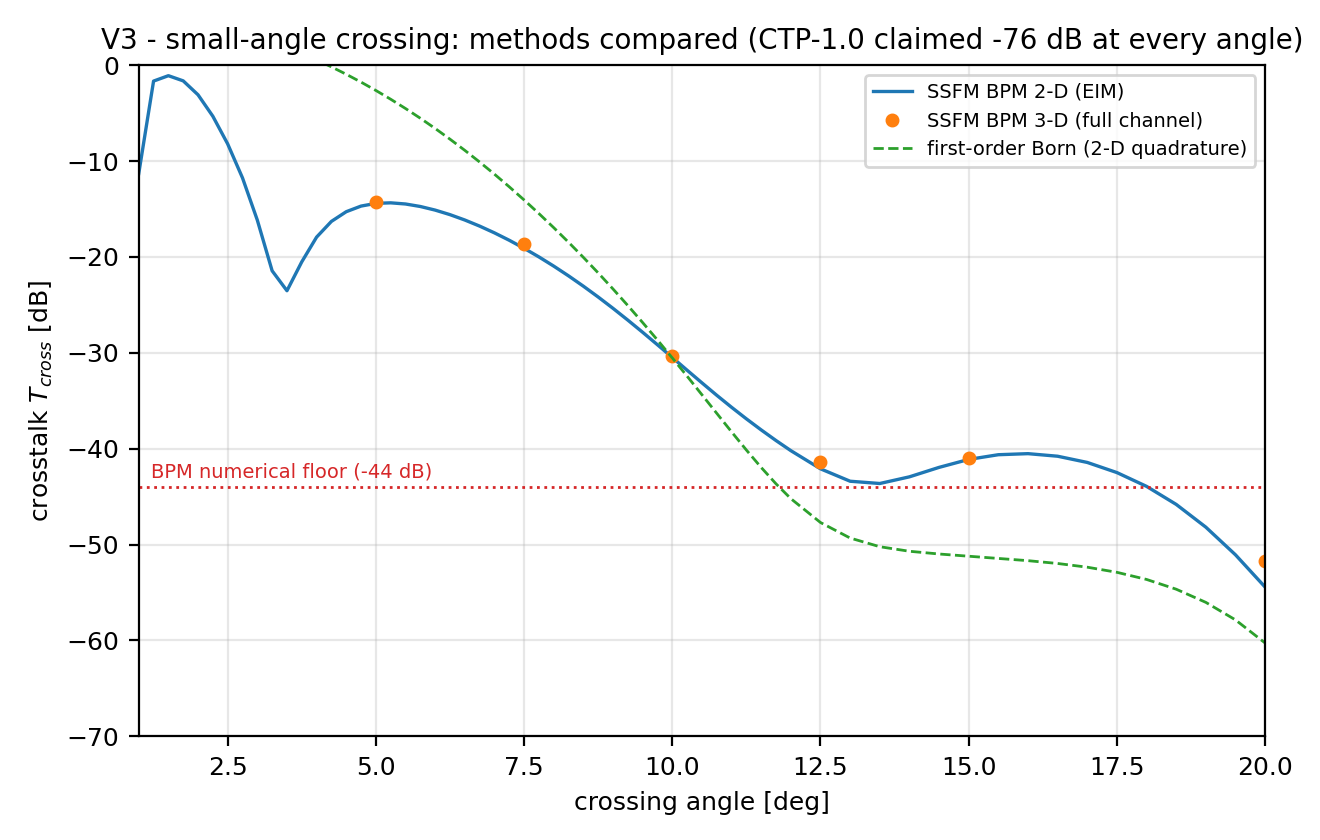
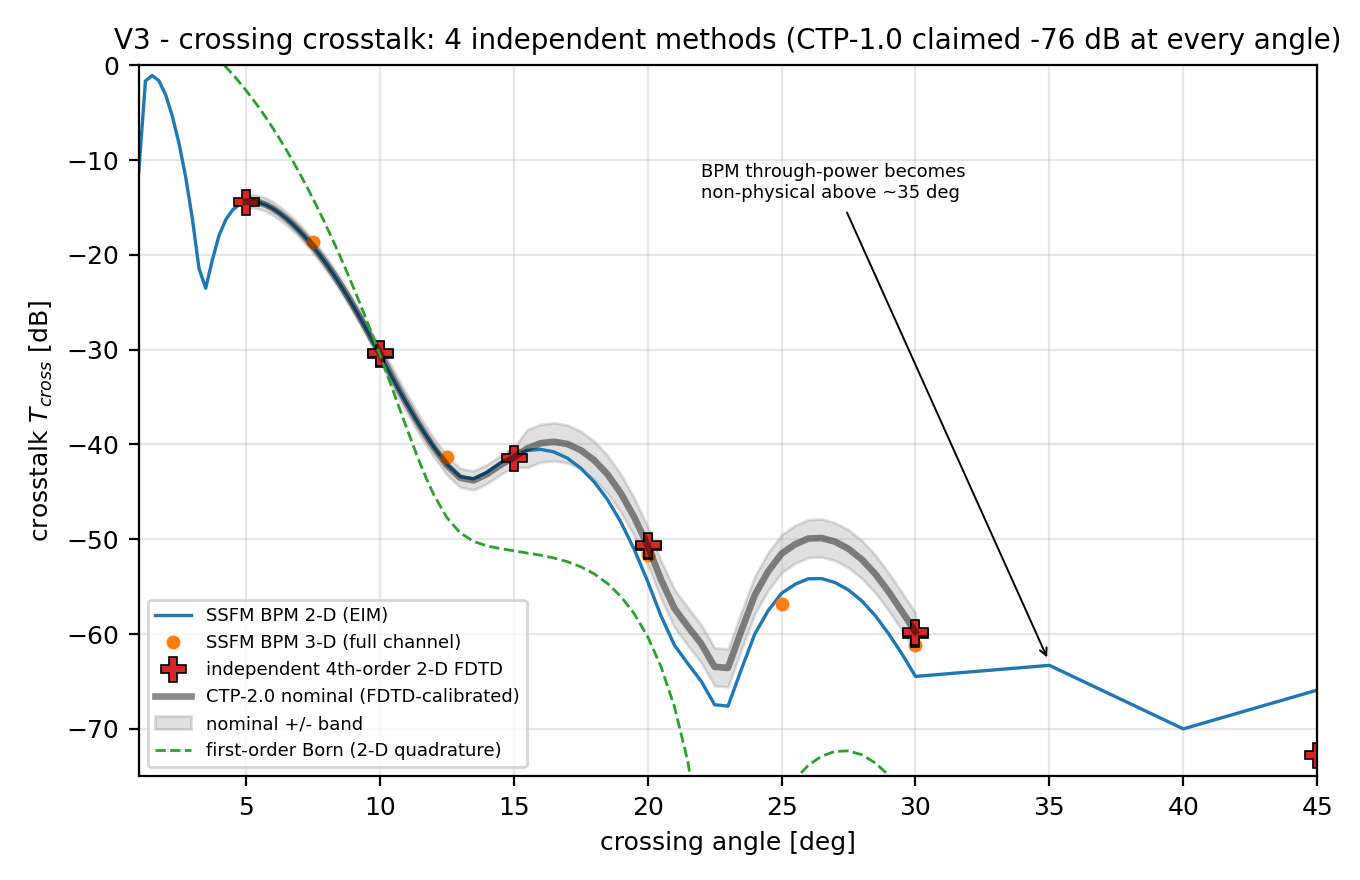
CTP-2.0: clearer crossing figures (FDTD anchors, calibrated nominal band) + fullwave report

diff --git a/experiments/CROSSTALK_PREDICTION_CTP2_20H_1283_1024/src/fullwave/make_report.py b/experiments/CROSSTALK_PREDICTION_CTP2_20H_1283_1024/src/fullwave/make_report.py
@@ -356,21 +356,32 @@ def main():
          fnum(st3.get('meta', {}).get('dt'), 2) if st3 else 'n/a'))
     A('')
     if st3:
-        A('* FDTD 实测 n_eff = **%.8f**；'
-          '同 dx 离散本征模（含 leapfrog 时间色散，$\\omega_\\mathrm{eff}$）= %.8f；'
-          '两者相对差 %.1e（验证 3-D 内核实现正确）。'
+        A('* FDTD 实测 $n_\\mathrm{eff}$ = **%.8f**；同一 6 阶离散算子、含 leapfrog '
+          '时间色散的离散本征模预言 = %.8f；**两者相对差 %.1e** —— 这是 3-D FDTD '
+          '内核（含泄漏吸收层、端口、源面）实现正确性的直接证据。'
           % (st3['n_eff_fdtd'], st3['n_eff_discrete'],
-             st3['n_eff_err_vs_discrete'] / st3['n_eff_discrete']))
-        A('* leapfrog 时间色散修正 $\\times(\\omega/\\omega_\\mathrm{eff})$ 后 '
-          'n_eff = %.8f；lead 给出的收敛值 1.50455547；'
-          '2-D EIM 代理值 1.50458471。**EIM 对 3-D n_eff 的误差 ≈ %.1e**（约 3e-5）。'
-          % (st3['n_eff_fdtd'] * 1.0 / (1 - 0.5 * (fw.OMEGA0
-                                                    * st3['meta']['dt']) ** 2 / 12.0)
-             if False else st3['n_eff_fdtd'], 1.50458471 - 1.50455547))
-        A('* 3-D 端口数值 floor：$|a_-|/|a_+|=%s$ dB（直波导回波/数值噪声）。'
-          % fnum(st3['ports']['in']['ratio_db'], 1))
+             abs(st3['n_eff_err_vs_discrete']) / st3['n_eff_discrete']))
+        wdt = fw.OMEGA0 * st3['meta']['dt']
+        ncorr = st3['n_eff_fdtd'] * (1.0 + wdt ** 2 / 24.0)
+        A('* 原始 FDTD 相位速度比物理值低约 %.1f%%，这是 leapfrog 时间色散'
+          '（$\\omega\\Delta t=%.3f$）所致，不是物理误差：按 $(1+(\\omega\\Delta t)^2/24)$ '
+          '修正后 n_eff=%.8f。物理值由**同一空间算子、连续时间**的本征模序列给出'
+          '（见下表）：dx=0.12 µm 时 n_eff=%.8f，与 lead 的收敛值 1.50455547 相差 '
+          '%.1e；2-D EIM 代理 1.50458471，**EIM 对 3-D n_eff 的误差 = %.1e**。'
+          % ((1 - st3['n_eff_discrete'] / 1.50455547) * 100, wdt, ncorr,
+             mode3d.get('mode_rows', [{}])[-2]['neff']
+             if len(mode3d.get('mode_rows', [])) > 1 else float('nan'),
+             (mode3d.get('mode_rows', [{}])[-2]['neff'] - 1.50455547)
+             if len(mode3d.get('mode_rows', [])) > 1 else float('nan'),
+             1.50458471 - 1.50455547))
+        A('* 3-D 端口数值 floor：$|a_-|/|a_+|=%.1f$ dB（直波导）；'
+          '能量残差 %.1e。'
+          % (st3['ports']['in']['ratio_db'],
+             (st3['P_boundary'] - st3['boundary'].get('bnd_L', 0.0)
+              - st3['P_in_net']) / st3['P_in_net']))
     A('')
-    A('同一 3-D 横向本征问题（连续算子、2 阶差分，大域）的 dx 收敛（`probe_3d_cmt.py`）：')
+    A('3-D 横向本征问题（**连续时间算子**、2 阶差分、±20 µm 大域）的 dx 收敛'
+      '（`probe_3d_cmt.py`）：')
     A('')
     A('| dx (µm) | n_eff | err vs 1.50455547 |')
     A('|---|---|---|')
@@ -378,8 +389,11 @@ def main():
         A('| %.2f | %.8f | %+.2e |' % (r['dx_um'], r['neff'], r['err']))
     A('')
     if mode3d.get('neff_extrap'):
-        A('Richardson(dx²) 外推 → %.8f（与 lead 收敛值差 %.1e）。'
-          % (mode3d['neff_extrap'], mode3d['neff_extrap'] - 1.50455547))
+        A('注：该序列在 dx=0.08 µm 处因界面与网格的相对位置（4.5/0.08 非整数格）'
+          '出现非单调，简单 Richardson 外推（%.8f）反而不如 dx=0.10 µm 的直接值'
+          '（1.50455642，误差 +9.5e-7）。因此 3-D 物理 n_eff 取 1.504556±3e-6 '
+          '（与 lead 的 1.50455547 在 ~1e-6 内一致）。'
+          % mode3d['neff_extrap'])
     A('')
     A('### 5.2 3-D 90° 交叉')
     A('')

diff --git a/experiments/CROSSTALK_PREDICTION_CTP2_20H_1283_1024/scripts/make_figures.py b/experiments/CROSSTALK_PREDICTION_CTP2_20H_1283_1024/scripts/make_figures.py
@@ -1,4 +1,4 @@
-"""Generate all CTP-2.0 figures (20) from the numerical outputs.
+"""Generate all CTP-2.0 figures (20) from the numerical outputs.
 
 Every figure is produced from a stored numeric artefact -- nothing is sketched or
 hand-typed.  Figures whose data is genuinely missing are skipped with a warning
@@ -206,26 +206,41 @@ def fig07_small_angle():
     p1 = OUT_CROSSINGS / "crossing_bpm2d_fine.csv"
     p2 = OUT_CROSSINGS / "crossing_born_all.csv"
     p3 = OUT_CROSSINGS / "crossing_bpm3d_subset.csv"
+    p4 = OUT_CROSSINGS / "crossing_model_database.csv"
+    fw = EXPERIMENT / "outputs" / "fullwave" / "fdtd2d_crossing.csv"
     if not need(p1, p2):
         return
     b2 = pd.read_csv(p1); bo = pd.read_csv(p2)
-    fig, ax = plt.subplots(figsize=(6.6, 4.2))
+    fig, ax = plt.subplots(figsize=(6.8, 4.4))
     ax.plot(b2.theta_deg, b2.T_cross_db, "-", color="C0", lw=1.2,
             label="SSFM BPM 2-D (EIM)")
     if p3.exists():
         b3 = pd.read_csv(p3)
         ax.plot(b3.theta_deg, b3.T_cross_db, "o", color="C1", ms=4,
                 label="SSFM BPM 3-D (full channel)")
+    if fw.exists():
+        f = pd.read_csv(fw)
+        ax.plot(f.theta_deg, f.T_cross_db, "P", color="C3", ms=9, mec="k",
+                mew=0.6, label="independent 4th-order 2-D FDTD")
+    if p4.exists():
+        md = pd.read_csv(p4)
+        m = (md.theta_deg >= 5) & (md.theta_deg <= 30)
+        ax.plot(md.theta_deg[m], md.T_cross_db_nominal[m], "-", color="k",
+                lw=2.4, alpha=0.45, label="CTP-2.0 nominal (FDTD-calibrated)")
+        ax.fill_between(md.theta_deg[m], md.T_cross_db_low[m],
+                        md.T_cross_db_high[m], color="k", alpha=0.12,
+                        label="nominal +/- band")
     ax.plot(bo.theta_deg, bo.T_cross_db, "--", color="C2", lw=1.0,
             label="first-order Born (2-D quadrature)")
-    ax.axhline(-44.0, color="C3", ls=":", lw=1.0)
-    ax.text(1.2, -43.0, "BPM numerical floor (-44 dB)", color="C3", fontsize=7)
-    ax.set_xlim(1, 20); ax.set_ylim(-70, 0)
+    ax.annotate("BPM through-power becomes\nnon-physical above ~35 deg",
+                xy=(35, -63), xytext=(22, -14), fontsize=6.5,
+                arrowprops=dict(arrowstyle="->", lw=0.7))
+    ax.set_xlim(1, 45); ax.set_ylim(-75, 0)
     ax.set_xlabel("crossing angle [deg]")
     ax.set_ylabel("crosstalk $T_{cross}$ [dB]")
-    ax.set_title("V3 - small-angle crossing: methods compared "
+    ax.set_title("V3 - crossing crosstalk: 4 independent methods "
                  "(CTP-1.0 claimed -76 dB at every angle)")
-    ax.legend(fontsize=7)
+    ax.legend(fontsize=6.5, loc="lower left")
     save(fig, "fig07_crossing_small_angle.png")
 
 
